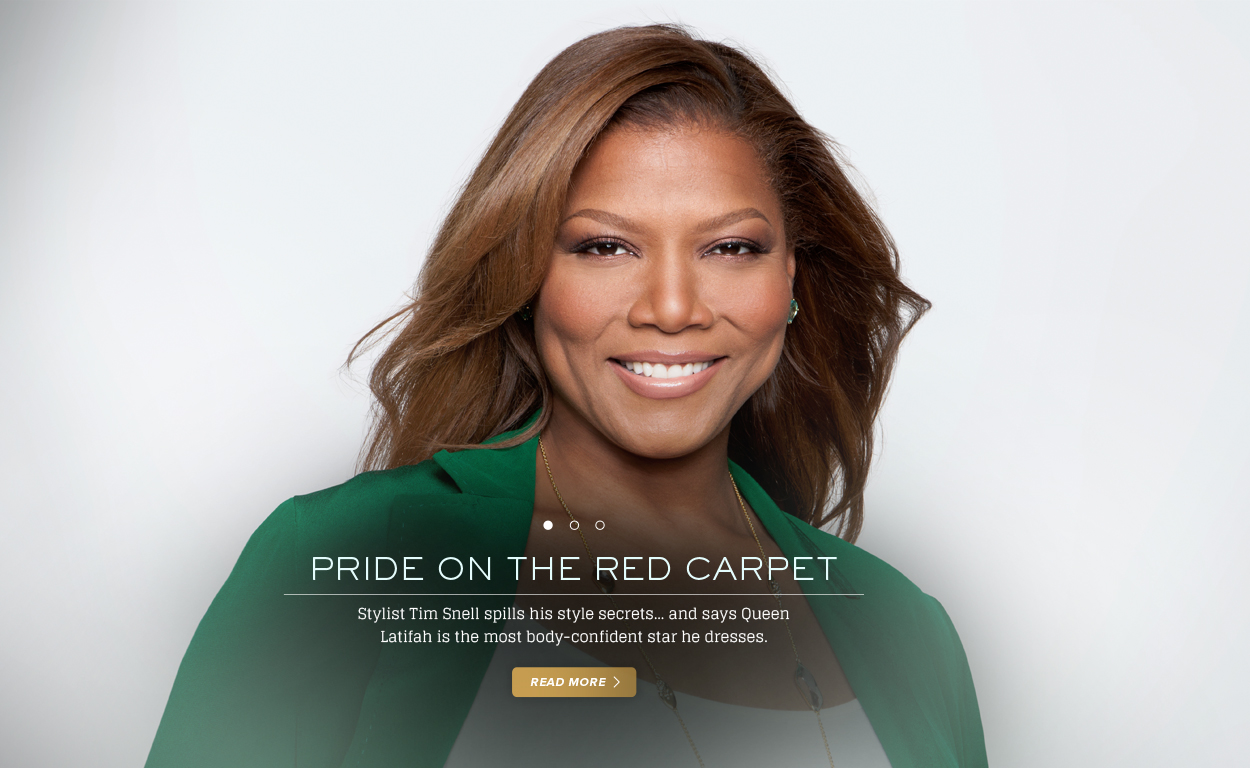
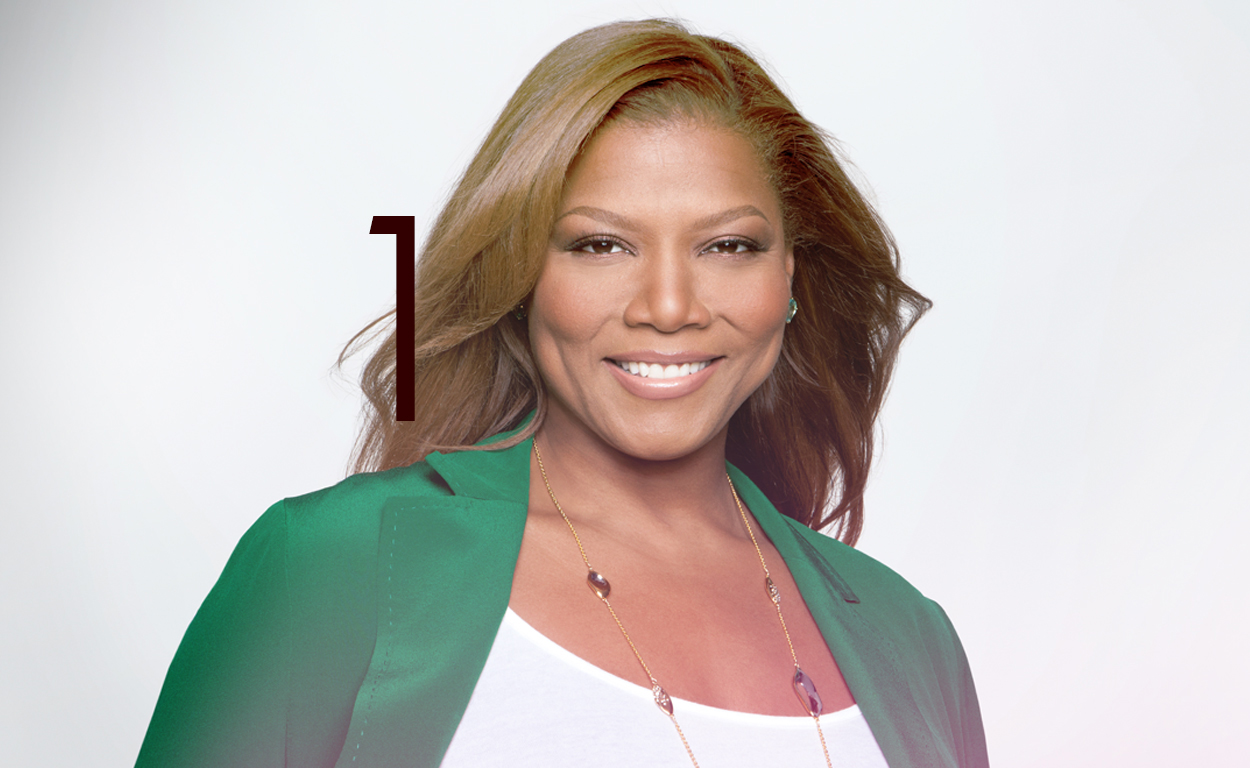
intro animation for homepage

diff --git a/static/css/base.css b/static/css/base.css
@@ -1,54 +1,7 @@
 body {
     margin: 0;
     padding: 0;
-}
-
-.nav li a, .cta .text, a.logo {
-    -moz-box-sizing: border-box;
-    -webkit-box-sizing: border-box;
-    box-sizing: border-box;
-}
-
-.wrapper {
-    width: 100%;
-    height: 100%;
-    position: relative;
-    margin: 0 auto
-}
-
-.left-dock {
-    height: 100%;
-    width: 150px;
-    /*border: 1px solid #000;*/
-    position: absolute;
-    top: 0;
-    left: 0;
-    z-index: 10;
-    /*background: #e8e7e3;*/
-
-}
-
-.content {
-    width: 100%;
-    height: 100%;
-    position: absolute;
-    top: 0;
-    left: 0px;
-    /*border: 1px solid #000;*/
-    overflow-y: scroll;
-    overflow-x: hidden;
-    z-index: 1;
-}
-
-.right-dock {
-    width: 225px;
-    height: 100%;
-    /*border: 1px solid #000;*/
-    position: absolute;
-    top: 0;
-    right: 0;
-    background: #c2d9d0;
-    z-index: 10;
+    min-width: 960px;
 }
 
 .nav {
@@ -56,9 +9,7 @@ body {
     padding: 0;
     list-style: none;
     text-transform: uppercase;
-}
-
-.nav li a {
+} .nav li a {
     position: relative;
     display: block;
     width: 150px;
@@ -76,7 +27,50 @@ body {
     -o-transition: all 0.2s ease-out;
     transition: all 0.2s ease-out;
     text-decoration: none;
+} .nav li a, .cta .text, a.logo {
+    -moz-box-sizing: border-box;
+    -webkit-box-sizing: border-box;
+    box-sizing: border-box;
 }
+
+
+.wrapper {
+    width: 100%;
+    height: 100%;
+    position: relative;
+    margin: 0 auto
+} .left-dock {
+    height: 100%;
+    width: 150px;
+    /*border: 1px solid #000;*/
+    position: absolute;
+    top: 0;
+    left: 0;
+    z-index: 10;
+    /*background: #e8e7e3;*/
+} .content {
+    width: 100%;
+    /*max-width: 1200px;*/
+    height: 100%;
+    position: absolute;
+    top: 0;
+    left: 0px;
+    /*border: 1px solid #000;*/
+    overflow-y: scroll;
+    overflow-x: hidden;
+    z-index: 1;
+} .right-dock {
+    width: 225px;
+    height: 100%;
+    /*border: 1px solid #000;*/
+    position: absolute;
+    top: 0;
+    right: 0;
+    background: #c2d9d0;
+    z-index: 10;
+}
+
+
 
 body.living .nav li.living a,
 body.loving .nav li.loving a,
@@ -275,15 +269,85 @@ body.latifah .nav li.latifah a {
 }
 
 
+
+
+.swipe {
+    overflow: hidden;
+    visibility: hidden;
+    position: relative;
+}
+.swipe-wrap {
+    overflow: hidden;
+    position: relative;
+}
+.swipe-wrap > div {
+    float:left;
+    /*width:100%;*/
+    height: 100%;
+    position: relative;
+}
+
+.swipe .info-bg {
+    background: url('/images/bokeh.png') center bottom no-repeat;
+    background-size: 100%;
+    position: relative;
+    height: 100%;
+
+}
+
+.swipe .info {
+    position: absolute;
+    bottom: 5%;
+    left:50%;
+    margin-left: -233px;
+    /*margin: 0 auto;*/
+    width: 465px;
+    text-align: center;
+    font-family: 'Open Sans', sans-serif;
+    color: #fff;
+}
+.swipe .info h1 {
+    text-transform: uppercase;
+    font-weight: normal;
+    font-size: 2.5em;
+    line-height: 1.2em;
+    margin: 0;
+}
+.swipe .info hr {
+    border: 0;
+    height: 0;
+    border-top: 1px solid rgba(0, 0, 0, 0.1);
+    border-bottom: 1px solid rgba(255, 255, 255, 0.3);
+}
+
+.swipe .info p {
+    font-family: 'Glegoo', "Times New Roman";
+    font-weight: bold;
+    font-size: 14px;
+}
+
+.watch-video {
+    display: block;
+width: 140px;
+height: 50px;
+background: url('/images/watch-video.png') no-repeat;
+text-indent: -9999em;
+margin: 0 auto;
+}
+
 #myswipe {
     position: absolute;
     top:0;
     left: 0;
 }
-#mySwipe, #mySwipe div {
-    width: 100%;
+#mySwipe, #mySwipe > div {
+    /*width: 100%;*/
     height: 100%;
 }
+
+
+
+
 
 body.home .content, body.living .content {
     left: 0;
@@ -325,6 +389,10 @@ body.living img.page {
     display: block;
     margin: 34px auto
 }
+
+
+
+
 
 .socialbar {
     position: absolute;

diff --git a/server.js b/server.js
@@ -19,23 +19,23 @@ server.configure(function(){
 //setup the errors
 server.error(function(err, req, res, next){
     if (err instanceof NotFound) {
-        res.render('404.jade', { locals: { 
+        res.render('404.jade', { locals: {
                   title : '404 - Not Found'
                  ,description: ''
                  ,author: ''
-                 ,analyticssiteid: 'XXXXXXX' 
+                 ,analyticssiteid: 'XXXXXXX'
                 },status: 404 });
     } else {
-        res.render('500.jade', { locals: { 
+        res.render('500.jade', { locals: {
                   title : 'The Server Encountered an Error'
                  ,description: ''
                  ,author: ''
                  ,analyticssiteid: 'XXXXXXX'
-                 ,error: err 
+                 ,error: err
                 },status: 500 });
     }
 });
-server.listen( port);
+server.listen(port);
 
 //Setup Socket.IO
 var io = io.listen(server);
@@ -59,7 +59,7 @@ io.sockets.on('connection', function(socket){
 
 server.get('/', function(req,res){
   res.render('index.jade', {
-    locals : { 
+    locals : {
               title : 'Your Page Title'
              ,description: 'Your Page Description'
              ,author: 'Your Name'
@@ -165,6 +165,5 @@ function NotFound(msg){
     Error.call(this, msg);
     Error.captureStackTrace(this, arguments.callee);
 }
-
 
 console.log('Listening on http://0.0.0.0:' + port );

diff --git a/static/js/script.js b/static/js/script.js
@@ -4,7 +4,18 @@
 var viewWidth = $('html').width();
 
 $(document).ready(function() {
-    window.mySwipe = Swipe(document.getElementById('slider'));
+    window.mySwipe = Swipe(document.getElementById('mySwipe'), {
+        auto: 5000,
+        transitionEnd: function(index, element) {
+            // re-hide all other elements so the transition will work
+            $(element).siblings('.img').find('.info-bg').fadeOut(10);
+            // call the transition on the current element
+            $(element).find('.info-bg').fadeIn('slow');
+        }
+        // transitionEnd: function(index, element) {}
+    });
+
+    $('#mySwipe #a .info-bg').fadeIn('slow');
 
     switchContent(window.location.pathname)
     $('.left-dock .nav li a, .logo').click(function(e) {
@@ -63,8 +74,8 @@ function switchContent(href) {
             });
 
             $('#a').backstretch("/images/slide1.jpg");
-            $('#b').backstretch("img/screen3-hero-bg.jpg");
-            $('#c').backstretch("img/new-whitehouse.jpg");
+            $('#b').backstretch("/images/slide2.jpg");
+            $('#c').backstretch("/images/slide3.jpg");
             break;
         case '/living':
             $('body').addClass('living');

diff --git a/static/css/swipe.css b/static/css/swipe.css
@@ -9,7 +9,12 @@
 }
 .swipe-wrap > div {
     float:left;
-    width:100%;
+    /*width:100%;*/
     height: 100%;
     position: relative;
+}
+
+.swipe .info {
+	width: 300px;
+	margin: 0 auto;
 }
